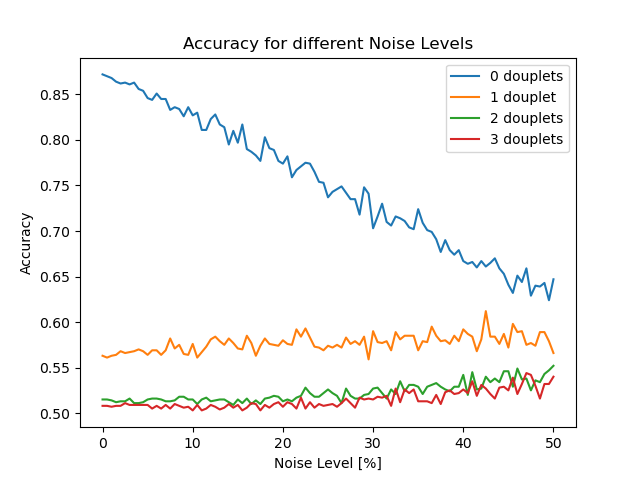
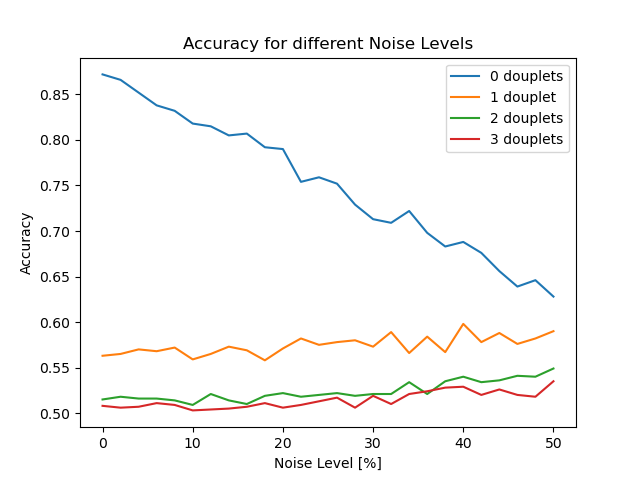
bigger steps in eval

diff --git a/netz/eval_netz_douplets.py b/netz/eval_netz_douplets.py
@@ -6,7 +6,7 @@ import matplotlib.pyplot as plt
 import torch
 from torch.autograd import Variable 
 
-netzfc = torch.load('saved_fc_netz.py', map_location=torch.device('cpu'))
+netzfc = torch.load('saved_fc_netz_douplets.py', map_location=torch.device('cpu'))
 
 def classify(input, cutoff):
   if input > cutoff: return 1
@@ -67,9 +67,9 @@ while (b <= 0.5):
   acc_2.append(round(a2, 3))
   acc_3.append(round(a3, 3))
   noise.append(b*100)
-  b = round(b + 0.005, 3)
+  b = round(b + 0.02, 3)
 
-np.savez('../results/evaluation/Accuracy_Noise_FCNN_douplets.npz', acc_0=acc_0, acc_1=acc_1, acc_2=acc_2, acc_3=acc_3, noise=noise)
+np.savez('../results/evaluation/Accuracy_Noise_douplets.npz', acc_0=acc_0, acc_1=acc_1, acc_2=acc_2, acc_3=acc_3, noise=noise)
 
 plt.plot(noise, acc_0, label = "0 douplets")
 plt.plot(noise, acc_1, label = "1 douplet")
@@ -79,6 +79,6 @@ plt.ylabel('Accuracy')
 plt.xlabel('Noise Level [%]')
 plt.title('Accuracy for different Noise Levels')
 plt.legend()
-plt.savefig('../results/evaluation/Accuracy_Noise_FCNN_douplets.png')
+plt.savefig('../results/evaluation/Accuracy_Noise_douplets.png')
 plt.show()
 

diff --git a/netz/eval_netz.py b/netz/eval_netz.py
@@ -63,20 +63,20 @@ while (b <= 0.5):
   #acc_won.append(won)
   acc_algo.append(round(algo, 3))
   noise.append(b*100)
-  b = round(b + 0.005, 3)
+  b = round(b + 0.02, 3)
 
 np.savez('../results/evaluation/Accuracy_Noise_fc_cnn.npz', cnn=acc_cnn, fcnn=acc_fc, noise=noise)
 
-"""
+
 #plt.plot(noise, acc, label = "CNN")
-plt.plot(noise, acc_fc, label = "FCNN sorted")
-plt.plot(noise, acc_uns, label = "FCNN unsorted")
+plt.plot(noise, acc_fc, label = "FCNN")
+plt.plot(noise, acc_cnn, label = "CNN")
 #plt.plot(noise, acc_won, label = "FCNN without Noise")
 plt.plot(noise, acc_algo, label = "Algorithm")
 plt.ylabel('Accuracy')
 plt.xlabel('Noise Level [%]')
 plt.title('Accuracy for different Noise Levels')
 plt.legend()
-plt.savefig('../results/Accuracy_Noise_cutoff.png')
+plt.savefig('../results/Accuracy_Noise_cutoff_fc_cnn.png')
 plt.show()
-"""
+
